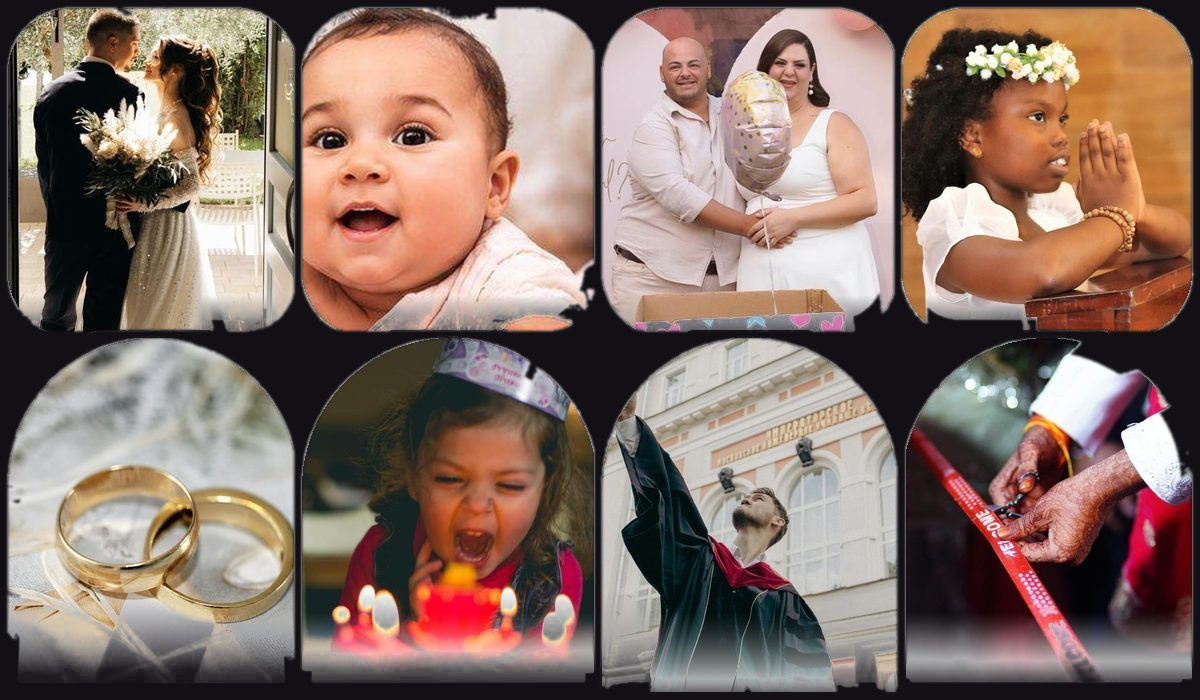
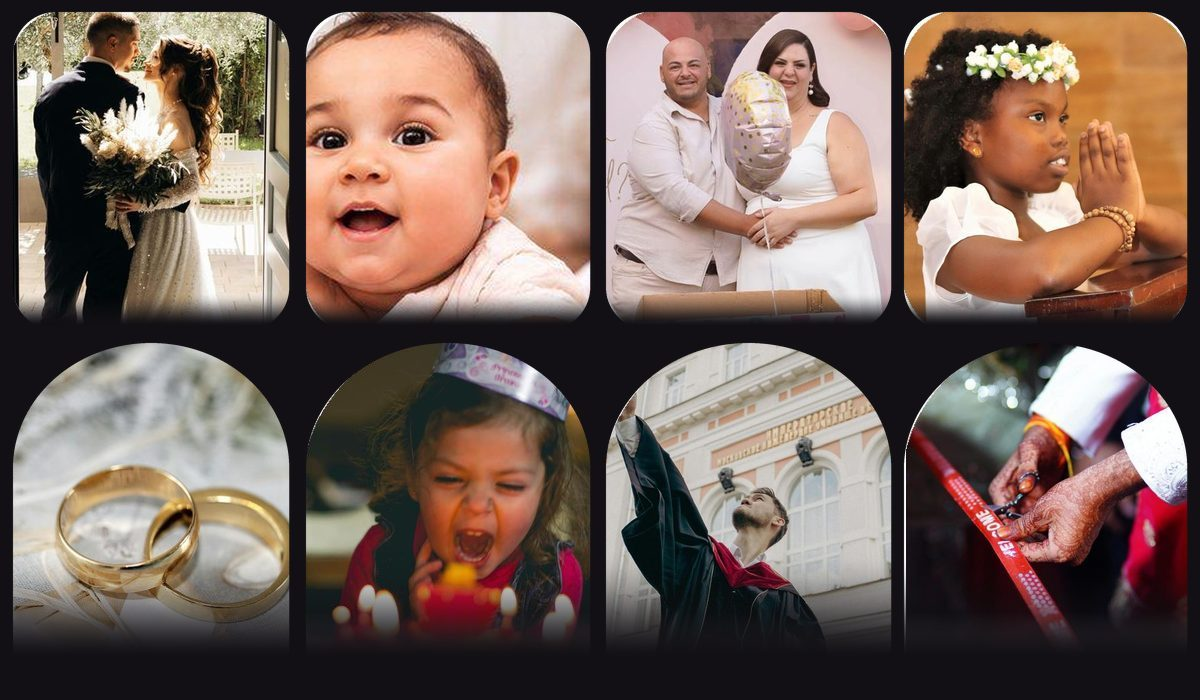
Collage mode sombre : bords nets sans halo blanc, fondus vers le fond sombre
Claude-Session: https://claude.ai/code/session_01DZD1fyPbKcUBTkn1qnKi7H

diff --git a/public/index.html b/public/index.html
@@ -27,7 +27,7 @@
 </head>
 <body>
   <main class="container home" style="max-width:480px">
-    <picture><source data-dark srcset="/img/maquette/collage-dark.webp?v=1" type="image/webp" media="(prefers-color-scheme: dark)"><source srcset="/img/maquette/collage.webp?v=19" type="image/webp"><img class="hero-collage" src="/img/maquette/collage.jpg?v=19" alt="Mariage, baptême, anniversaire, remise de diplôme : tous vos moments" fetchpriority="high" width="1200" height="700"></picture>
+    <picture><source data-dark srcset="/img/maquette/collage-dark.webp?v=2" type="image/webp" media="(prefers-color-scheme: dark)"><source srcset="/img/maquette/collage.webp?v=19" type="image/webp"><img class="hero-collage" src="/img/maquette/collage.jpg?v=19" alt="Mariage, baptême, anniversaire, remise de diplôme : tous vos moments" fetchpriority="high" width="1200" height="700"></picture>
 
     <p style="text-align:center;margin:0">
       <span class="logo logo-lg"><img src="/img/logo.png" alt=""><span>MaFel<b>i</b>za</span></span>
